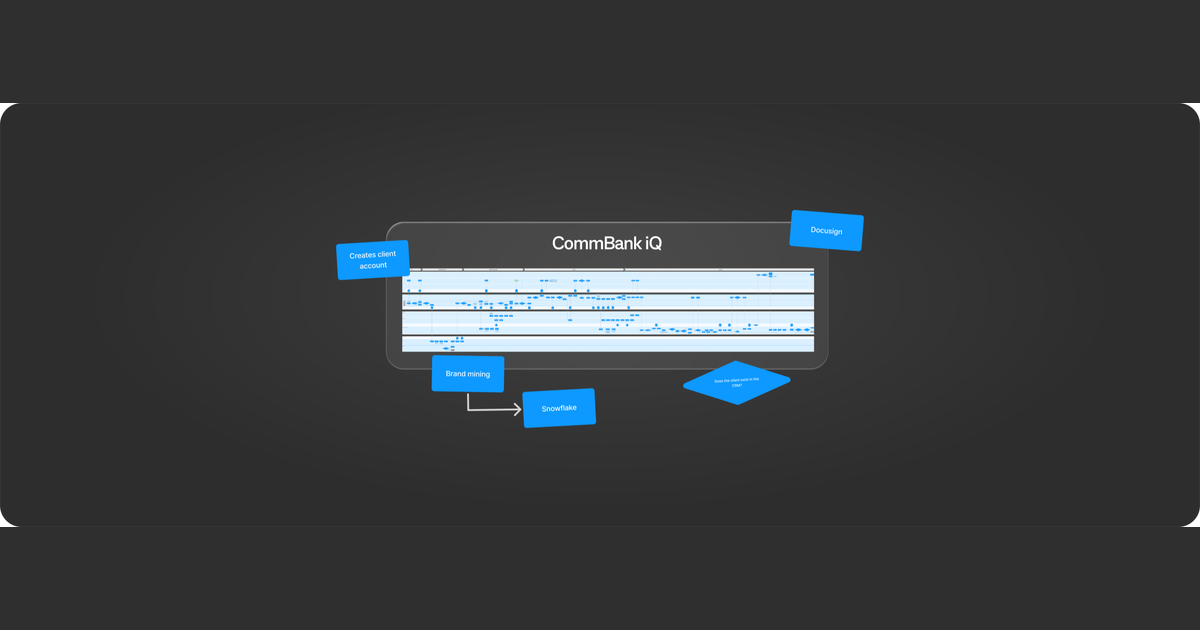
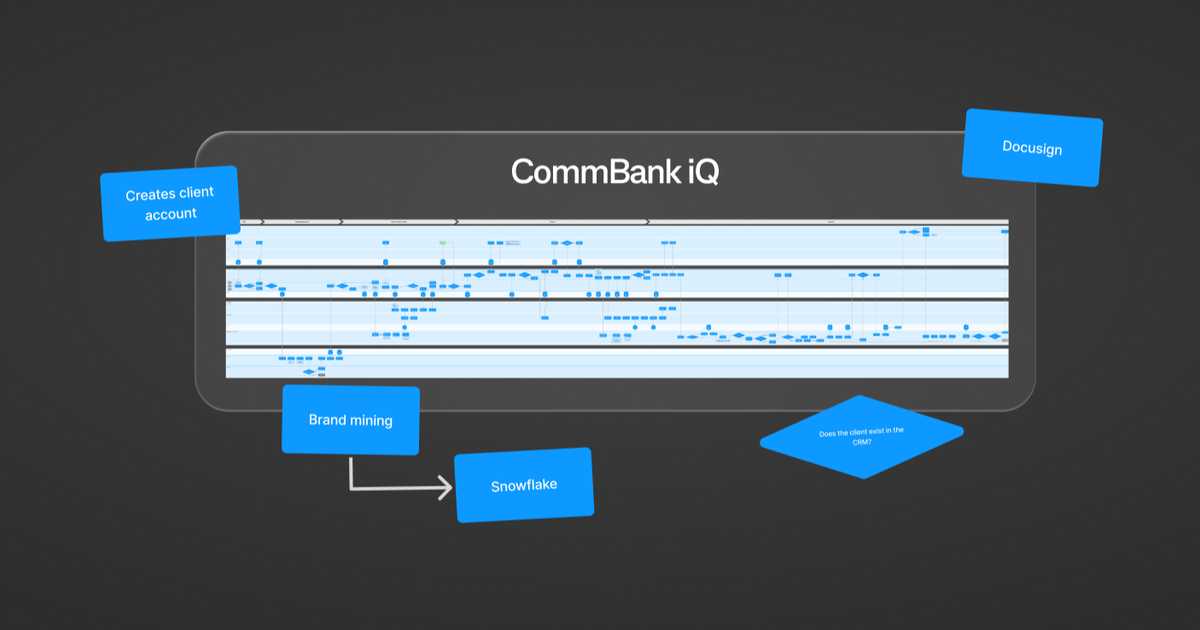
fix(social): content-aware crop for the case study cards
Two earlier attempts were wrong, both visible on LinkedIn:

1. Letterboxing the whole panel onto a flat bar. The Figma export's rounded corners
   are opaque WHITE — the page behind the rounded rect, not alpha — so flatten()
   never covered them and they showed as notches at all four corners.
2. Cover-cropping the full panel. Corners gone and no seam, but the artwork only
   occupies 31-45% of the panel width, so at thumbnail size it read as a tiny
   picture floating in a dark field.

Now the crop finds the artwork's bounding box (ignoring a 60px inset that clears
the white corners), adds 10% breathing room, expands to the card ratio around its
centre and clamps inside the panel. Each case study zooms by what its own
composition needs — 1.7x to 2.0x across the current five. Automatic for new ones.

diff --git a/eleventy.config.js b/eleventy.config.js
@@ -5,17 +5,90 @@ import { join } from "node:path";
 import sharp from "sharp";
 
 /**
- * Social cards are 1200x630 (1.91:1) but the hero panels are 2.83:1, so handing
- * a hero straight to LinkedIn/Slack centre-crops it and throws away the top and
- * bottom third — exactly where the artwork sits.
+ * Social cards, 1200x630 (1.91:1) from a 2.83:1 hero panel.
  *
- * This letterboxes each hero onto the panel's own edge colour (#2f2f2f) instead.
- * The panels have rounded corners with transparency, so flattening onto the same
- * colour makes the padding invisible — it just reads as a taller panel.
+ * Two earlier attempts failed on LinkedIn, and both are worth remembering:
  *
- * Runs before every build, so a new case study gets a correct card for free.
+ * 1. Letterboxing the whole panel onto a flat bar. The Figma export's rounded
+ *    corners are opaque WHITE — the page behind the rounded rect, not alpha — so
+ *    flatten() never covered them and they showed as notches at all four corners.
+ * 2. Cover-cropping the full panel. Corners gone and no seam, but the artwork only
+ *    occupies 31-45% of the panel width, so at LinkedIn's thumbnail size it read as
+ *    a tiny picture floating in a dark field.
+ *
+ * So the crop is content-aware: find the artwork's bounding box (ignoring a 60px
+ * inset that clears the white corners), add breathing room, expand to the card
+ * ratio around its centre, and clamp inside the panel. Each case study zooms by
+ * whatever its own composition needs — measured 1.7x to 2.0x on the current five.
  */
-const OG_BG = { r: 47, g: 47, b: 47, alpha: 1 };
+const OG_BG = { r: 45, g: 45, b: 45 };
+const OG_W = 1200;
+const OG_H = 630;
+const CORNER_INSET = 60; // clears the 48px white corner radius
+const OG_PAD = 0.1; // breathing room around the artwork
+
+/** Bounding box of pixels that are clearly not the dark panel background. */
+async function artworkBox(file) {
+  const img = sharp(file);
+  const { width: W, height: H } = await img.metadata();
+  const { data, info } = await img
+    .extract({
+      left: CORNER_INSET,
+      top: CORNER_INSET,
+      width: W - CORNER_INSET * 2,
+      height: H - CORNER_INSET * 2,
+    })
+    .raw()
+    .toBuffer({ resolveWithObject: true });
+
+  const { width: w, height: h, channels } = info;
+  let minX = w, minY = h, maxX = 0, maxY = 0, found = false;
+  for (let y = 0; y < h; y += 4) {
+    for (let x = 0; x < w; x += 4) {
+      const i = (y * w + x) * channels;
+      const r = data[i], g = data[i + 1], b = data[i + 2];
+      const light = Math.max(r, g, b) > 90;
+      const saturated = Math.max(r, g, b) - Math.min(r, g, b) > 25;
+      if (light || saturated) {
+        if (x < minX) minX = x;
+        if (x > maxX) maxX = x;
+        if (y < minY) minY = y;
+        if (y > maxY) maxY = y;
+        found = true;
+      }
+    }
+  }
+  if (!found) return null;
+  return {
+    minX: minX + CORNER_INSET, maxX: maxX + CORNER_INSET,
+    minY: minY + CORNER_INSET, maxY: maxY + CORNER_INSET,
+    W, H,
+  };
+}
+
+/** Expand a box to the card ratio around its centre, clamped inside the panel. */
+function cardCrop(box) {
+  const ratio = OG_W / OG_H;
+  let { minX, maxX, minY, maxY, W, H } = box;
+  let bw = maxX - minX, bh = maxY - minY;
+  minX -= bw * OG_PAD; maxX += bw * OG_PAD;
+  minY -= bh * OG_PAD; maxY += bh * OG_PAD;
+  bw = maxX - minX; bh = maxY - minY;
+  const cx = (minX + maxX) / 2, cy = (minY + maxY) / 2;
+  if (bw / bh < ratio) bw = bh * ratio;
+  else bh = bw / ratio;
+
+  const maxW = W - CORNER_INSET * 2, maxH = H - CORNER_INSET * 2;
+  if (bw > maxW) { bw = maxW; bh = bw / ratio; }
+  if (bh > maxH) { bh = maxH; bw = bh * ratio; }
+
+  return {
+    left: Math.round(Math.min(Math.max(cx - bw / 2, CORNER_INSET), W - CORNER_INSET - bw)),
+    top: Math.round(Math.min(Math.max(cy - bh / 2, CORNER_INSET), H - CORNER_INSET - bh)),
+    width: Math.round(bw),
+    height: Math.round(bh),
+  };
+}
 
 async function buildOgCards(imgDir) {
   if (!existsSync(imgDir)) return 0;
@@ -25,10 +98,13 @@ async function buildOgCards(imgDir) {
     const hero = join(imgDir, entry.name, "hero.png");
     const og = join(imgDir, entry.name, "og.png");
     if (!existsSync(hero)) continue;
-    // Only regenerate when the hero is newer, so builds stay fast.
     if (existsSync(og) && statSync(og).mtimeMs >= statSync(hero).mtimeMs) continue;
-    await sharp(hero)
-      .resize(1200, 630, { fit: "contain", background: OG_BG })
+
+    const box = await artworkBox(hero);
+    const pipeline = sharp(hero);
+    if (box) pipeline.extract(cardCrop(box));
+    await pipeline
+      .resize(OG_W, OG_H, { fit: "cover", position: "centre" })
       .flatten({ background: OG_BG })
       .png({ compressionLevel: 9 })
       .toFile(og);
